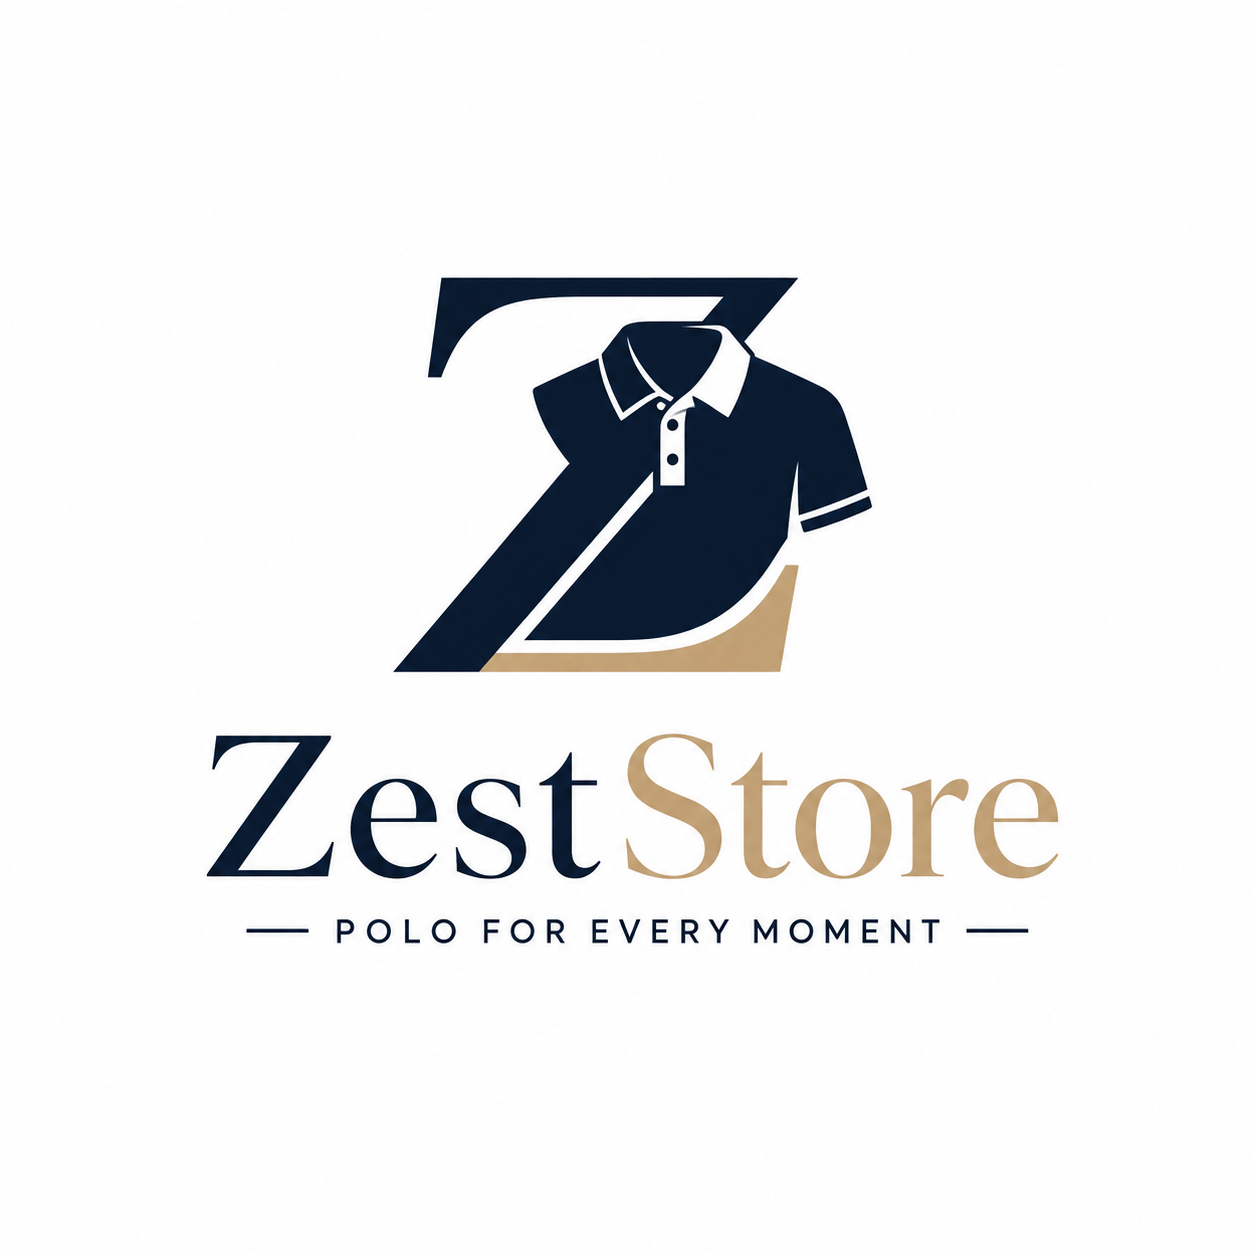
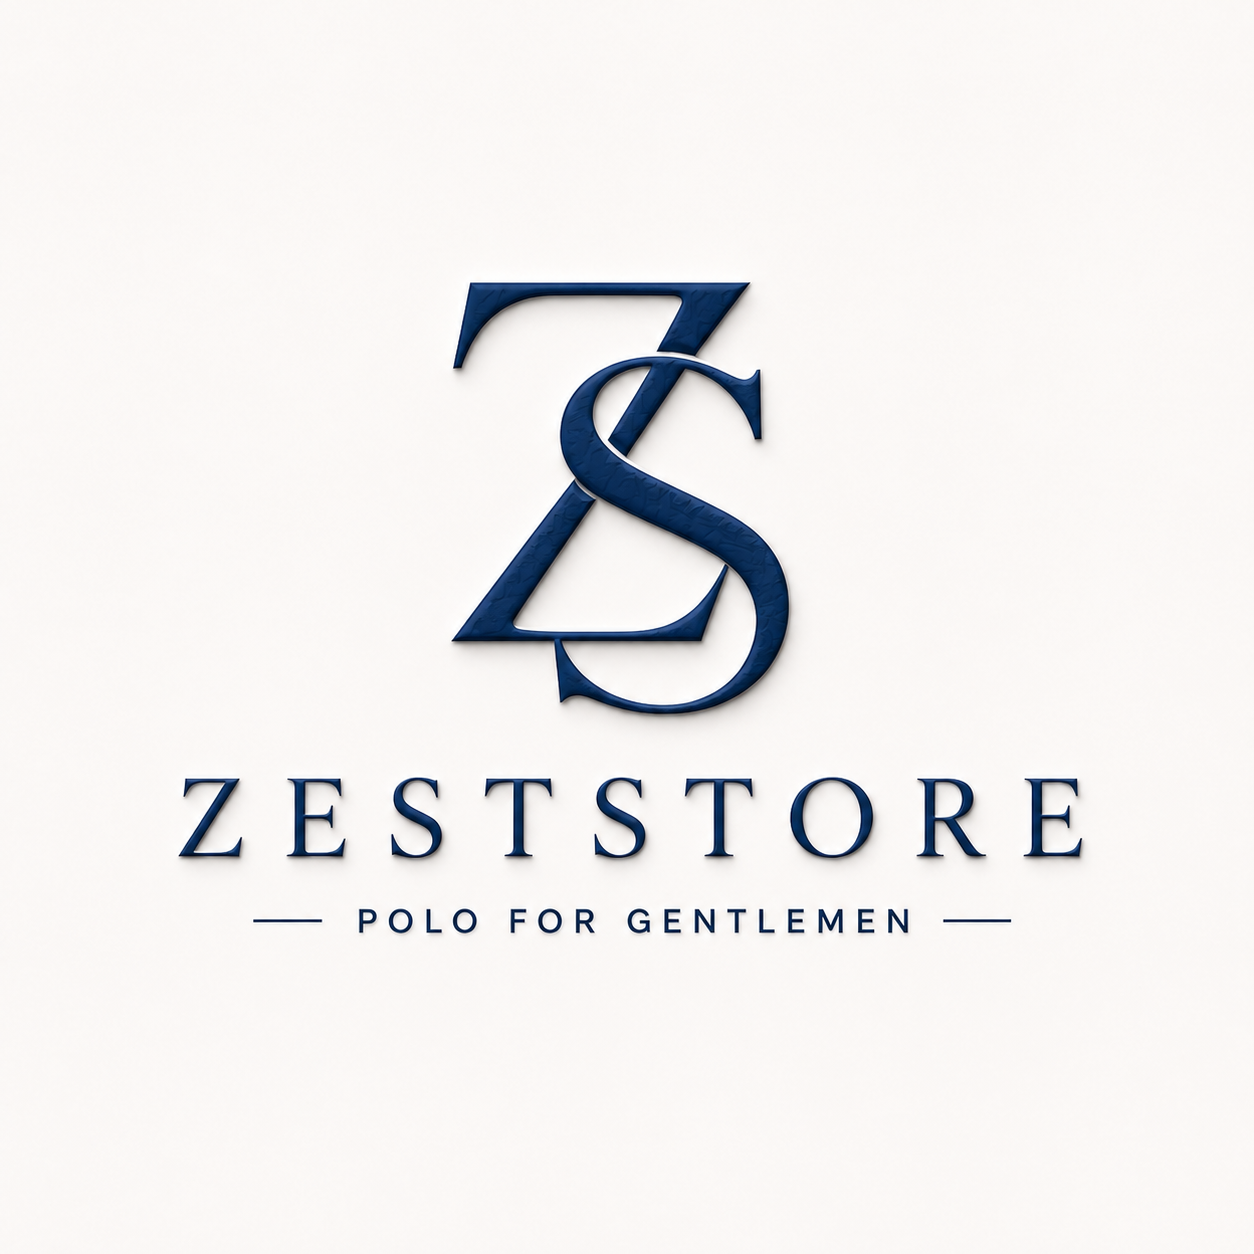
giaodien

Changed region(s): [[0.1244, 0.2177, 0.8708, 0.7464]]

diff --git a/ZestStore/frontend/src/pages/Home.jsx b/ZestStore/frontend/src/pages/Home.jsx
@@ -81,9 +81,7 @@ export default function Home() {
               <a href="#products" onClick={scrollToProducts} className="inline-flex items-center gap-2 bg-white text-blue-700 font-semibold px-6 py-3 rounded-lg hover:bg-blue-50 transition shadow-lg cursor-pointer">
                 <ShoppingBag className="h-5 w-5" /> Mua ngay <ArrowRight className="h-4 w-4" />
               </a>
-              <a href="#products" onClick={scrollToProducts} className="inline-flex items-center gap-2 border border-white/40 text-white font-semibold px-6 py-3 rounded-lg hover:bg-white/40 transition cursor-pointer">
-                Xem bộ sưu tập
-              </a>
+
             </div>
             <div className="flex flex-wrap gap-6 mt-8 text-sm justify-center md:justify-start">
               {[

diff --git a/ZestStore/frontend/src/pages/ProductDetail.jsx b/ZestStore/frontend/src/pages/ProductDetail.jsx
@@ -227,7 +227,7 @@ export default function ProductDetail() {
           )}
           <h1 className="text-3xl font-bold text-gray-900 mb-1">{product.tenSanPham}</h1>
           <div className="flex items-center gap-2 mb-5">
-            {!selectedVar && <span className="text-sm font-medium text-gray-400 bg-gray-100 px-2 py-0.5 rounded">Từ</span>}
+            {!selectedVar}
             <p className="text-4xl font-bold bg-gradient-to-r from-blue-700 to-blue-500 bg-clip-text text-transparent">{VND(variantPrice)}</p>
           </div>
 